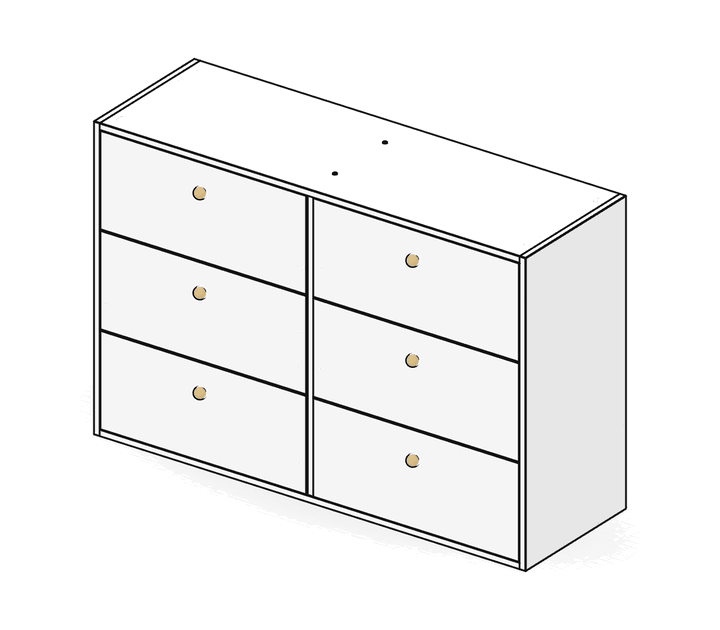
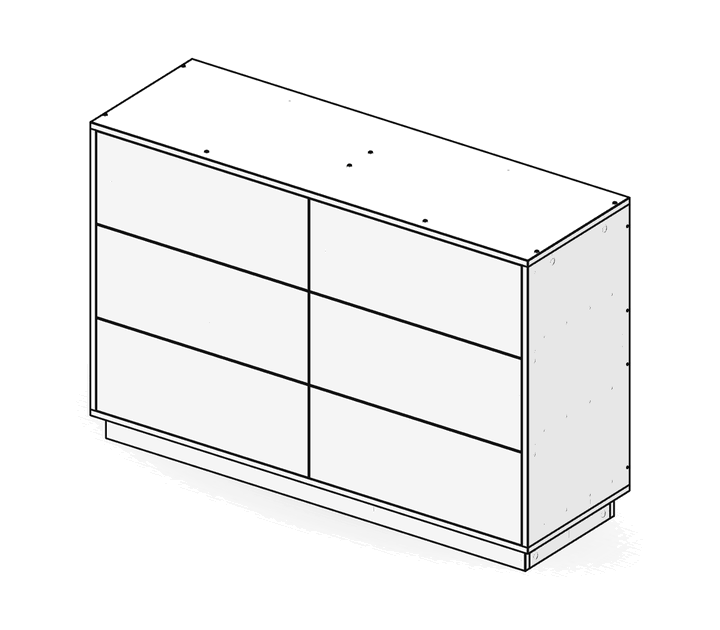
Finish the Kmart recipes, redraw Kmart products, README
- Miles 6 Drawer Chest and Entertainment Unit, Stevie 4 Drawer Chest, Linear
  bedside table and the 3 tier trolley follow their manuals.
- 16 Kmart guides in all are built from their manuals.
- The Miles entertainment unit is drawn with its four doors.
- Every Kmart product picture is redrawn from its new recipe.
- The README describes Dowel and lists each Kmart guide that follows its
  manual, with screenshots.

Claude-Session: https://claude.ai/code/session_01RuuCE6puWiia15j99ZXSLr

diff --git a/src/data/kmart.ts b/src/data/kmart.ts
@@ -91,7 +91,7 @@ export const KMART_ROWS: KmartRow[] = [
   { name: "Miles 2 Drawer Bedside Table", variant: "Bedside table, 48 × 52 cm", line: "miles", kind: "nightstand", category: "Bedside table", size: [48, 52, 40], keycodes: { Walnut: "43709304", "Light Oak": "43709243" }, x: { rows: 2 }, material: "Particle board, MDF", keywords: "nightstand" },
   { name: "Miles 3 Drawer Chest", variant: "Chest of drawers, 80 × 76 cm", line: "miles", kind: "chest", category: "Chest of drawers", size: [80, 76, 40], keycodes: { "Light Oak": "43709229", Walnut: "43709298" }, x: { rows: 3 } },
   { name: "Miles 6 Drawer Chest", variant: "Chest of drawers, 120 × 76 cm", line: "miles", kind: "chest", category: "Chest of drawers", size: [120, 76, 40], keycodes: { "Light Oak": "43709106", Walnut: "43709267" }, x: { rows: 3, cols: 2 }, people: 2, keywords: "dresser" },
-  { name: "Miles Entertainment Unit", variant: "Entertainment unit, 120 × 48 cm", line: "miles", kind: "tv", category: "Entertainment unit", size: [120, 48, 40], keycodes: { Walnut: "43709281", "Light Oak": "43709137" }, x: { doors: 2 }, keywords: "tv unit tv bench" },
+  { name: "Miles Entertainment Unit", variant: "Entertainment unit, 120 × 48 cm", line: "miles", kind: "tv", category: "Entertainment unit", size: [120, 48, 40], keycodes: { Walnut: "43709281", "Light Oak": "43709137" }, keywords: "tv unit tv bench" },
   { name: "Oliver Bookshelf", variant: "Bookcase, 80 × 120 cm", line: "oliver", kind: "bookcase", category: "Bookcase", size: [80, 120, 29], keycodes: { Standard: "43707409" }, x: { shelves: 3 }, keywords: "bookshelf" },
   { name: "Ryan Ribbed Coffee Table", variant: "Coffee table, 70 × 37 cm", line: "ryan", kind: "coffee", category: "Coffee table", size: [70, 37, 70], keycodes: { Walnut: "43636594", Black: "43636600", Oak: "43636549" }, x: { round: true, shelf: false }, material: "MDF" },
   { name: "5 Tier Scandi Bookshelf", variant: "Bookcase, 80 × 163 cm", line: "scandi", kind: "bookcase", category: "Bookcase", size: [80, 163, 32], keycodes: { Standard: "43538263" }, x: { shelves: 5 }, keywords: "bookshelf" },

diff --git a/src/lib/plan/families/kmart-miles.ts b/src/lib/plan/families/kmart-miles.ts
@@ -623,8 +623,8 @@ function tvUnit(s: ProductSpec): CustomParams {
     { title: "Screw the end panels on", detail: "Four screws through each end panel: two into the back of the partition, two into the end shelf.", fix: endScrews },
     { title: "Fix the shelves to the end panels", detail: "A small bracket under each end shelf, one screw into the shelf and one into the end panel.", fix: shelfBrackets },
     { title: "Screw the plinth to the bottom", detail: "Eight dowels in the plinth's top edges, press it onto the bottom and drive the ten screws up through it.", add: plinth, fix: plinthScrews, from: outFrom(plinth, [0, -300, 0]) },
-    { title: "Fit the hinges to the flat doors", detail: "Two straight hinges (M) on each flat door (11 and 12), two screws each. Mind which edge: the doors open away from the middle.", fix: flatHinges, wait: ["D11", "D12"], from: outFrom(["D11", "D12"]) },
-    { title: "Fit the hinges to the curved doors", detail: "Two cranked hinges (L) inside the back edge of each curved door (10 and 13), two screws each.", fix: curvedHinges, wait: ["D10", "D13"], from: outFrom(["D10", "D13"]) },
+    { title: "Fit the hinges to the flat doors", detail: "Two straight hinges (M) on each flat door (11 and 12), two screws each. Mind which edge: the doors open away from the middle.", fix: flatHinges, wait: ["D11", "D12"], from: outFrom(["D11", "D12"], [0, 0, -OUT]) },
+    { title: "Fit the hinges to the curved doors", detail: "Two cranked hinges (L) inside the back edge of each curved door (10 and 13), two screws each.", fix: curvedHinges, wait: ["D10", "D13"], from: outFrom(["D10", "D13"], [0, 0, -OUT]) },
     {
       title: "Stand it up, slide in the upper back and hang the doors",
       detail: "Stand it the right way up and slide the upper back (8) down onto the middle shelf. Screw each hinge's plate on with four screws, the flat doors to the partitions and the curved doors to the end panels.",

diff --git a/README.md b/README.md
@@ -12,13 +12,44 @@ Dowel is a multi-brand fork of [Bygga](https://github.com/Nutlope/bygga) (MIT), 
 | --- | --- | --- |
 | Products / guides | 1,223 / 2,225 | 72 / 72 |
 | Find it by | name (KALLAX), article number (802.758.87), ikea.com link | name (8 Cube Storage Unit), keycode (42633297), kmart.com.au link |
-| Guides that follow the shop's own manual | 2,139 (from Bygga) | the cube units and the products in `src/lib/plan/families/kmart-*.ts` |
-| Voice | 1,497 clips (Together) | clips recorded locally with the same Kokoro voice |
+| Guides that follow the shop's own manual | 2,139 (from Bygga) | 16, written from Kmart's PDFs: cube units, ladder shelf, Wharf, Charlie, Miles, Stevie, Linear, kids storage, trolley |
+| Voice | 1,497 clips (Together) | every Kmart line, plus the top IKEA guides' missing lines, recorded locally with the same Kokoro voice |
 
 - **One search for every shop.** "All shops / IKEA / Kmart" switch, brand tags on every result, and brand words in the query work too: `kmart bookcase`, `IKEA KALLAX`, `my billy` and `the kallax` all land right (Bygga's search read "IKEA" or "my" as the product name).
 - **Kmart guides from Kmart's manuals.** The 8 Cube Storage Unit is built the way its manual builds it (two halves of four cubes joined on the middle board with cam locks, backs nailed on face down) with Kmart's own part numbers 1 to 9 and exactly the hardware in the bag: 20 screws, 20 dowels, 10 dowel screws, 4 cam bolts and locks, 48 nails, 16 caps and the wall kit.
 - **Brand-aware everything.** Covers show the shop and its number ("Keycode 42633297"), link to the right site for the manual, the help chat and FAQ know where to get missing parts, share cards and disclaimers name the right owner, and AI drafts for unlisted products ask about the right shop.
 - **Fixes over Bygga.** Voice answers no longer sit in a shared CDN cache, shared scan links are ignored while the scanner is off, feedback strips terminal control characters, Motion animations honour reduced motion, missing-part rows say which part, the lightest grey passes contrast, and 60 IKEA guides that had no drawing now have one.
+
+<p align="center"><img alt="Kmart guides drawn by the engine" src="docs/img/kmart-drawings.png" width="720"></p>
+
+| Kmart 8 Cube Storage Unit, step 8 | Kmart Charlie Entertainment Unit, step 12 |
+| --- | --- |
+| ![8 Cube step 8](docs/img/kmart-8-cube-step8.png) | ![Charlie step 12](docs/img/kmart-charlie-step12.png) |
+
+### Kmart guides from Kmart's manuals
+
+Every one of these follows its own Kmart manual: the same steps in the same order, Kmart's own part numbers and letters, and the hardware counts printed on the manual's list.
+
+| Product | Steps | Notes |
+| --- | --- | --- |
+| 8 Cube Storage Unit | 11 | two halves of four cubes joined on the middle board with cam locks; backs nailed face down |
+| 4 Cube Storage Unit | 7 | dividers on dowel screws, sides, ends, backs, caps, wall bracket |
+| 4 Tier Ladder Shelf | 6 | angled legs joined in pairs, rails on every shelf |
+| Wharf 5 Tier Bookshelf | 5 | shelves bolted between two frames, feet, wall brackets |
+| Wharf Student Desk | 5 | built upside down on the top: beam, leg frames, cross brace |
+| Charlie 6 Drawer Chest | 22 | carcass on cam bolts, plinth, two backs, six drawers on runners |
+| Charlie 2 Drawer Bedside Table | 16 | |
+| Charlie Entertainment Unit | 17 | three doors on straight and cranked hinges |
+| Charlie 2 Tier Shoe Cabinet | 8 | tilting trays |
+| Miles 6 Drawer Chest | 24 | two-person steps where the manual marks them |
+| Miles Entertainment Unit | 17 | curved end doors |
+| Stevie 4 Drawer Chest | 17 | |
+| Linear 1 Drawer Bedside Table | 24 | |
+| Kids Bookcase with Storage | 20 | |
+| Kids Storage Unit with 6 Tubs | 19 | |
+| White 3 Tier Trolley | 6 | metal frame, braked castors on opposite corners |
+
+Kmart's manuals sometimes disagree with themselves: a step's count box against its own drawing or the parts list (the 6 tub unit's step 5, the Stevie cam locks, the Miles clip screws). Each recipe picks the reading the drawings and totals support and says why in its comments. The other 56 Kmart products are drawn by the kind builders from their size and layout, with their keycodes.
 
 ## Adding a shop
 
